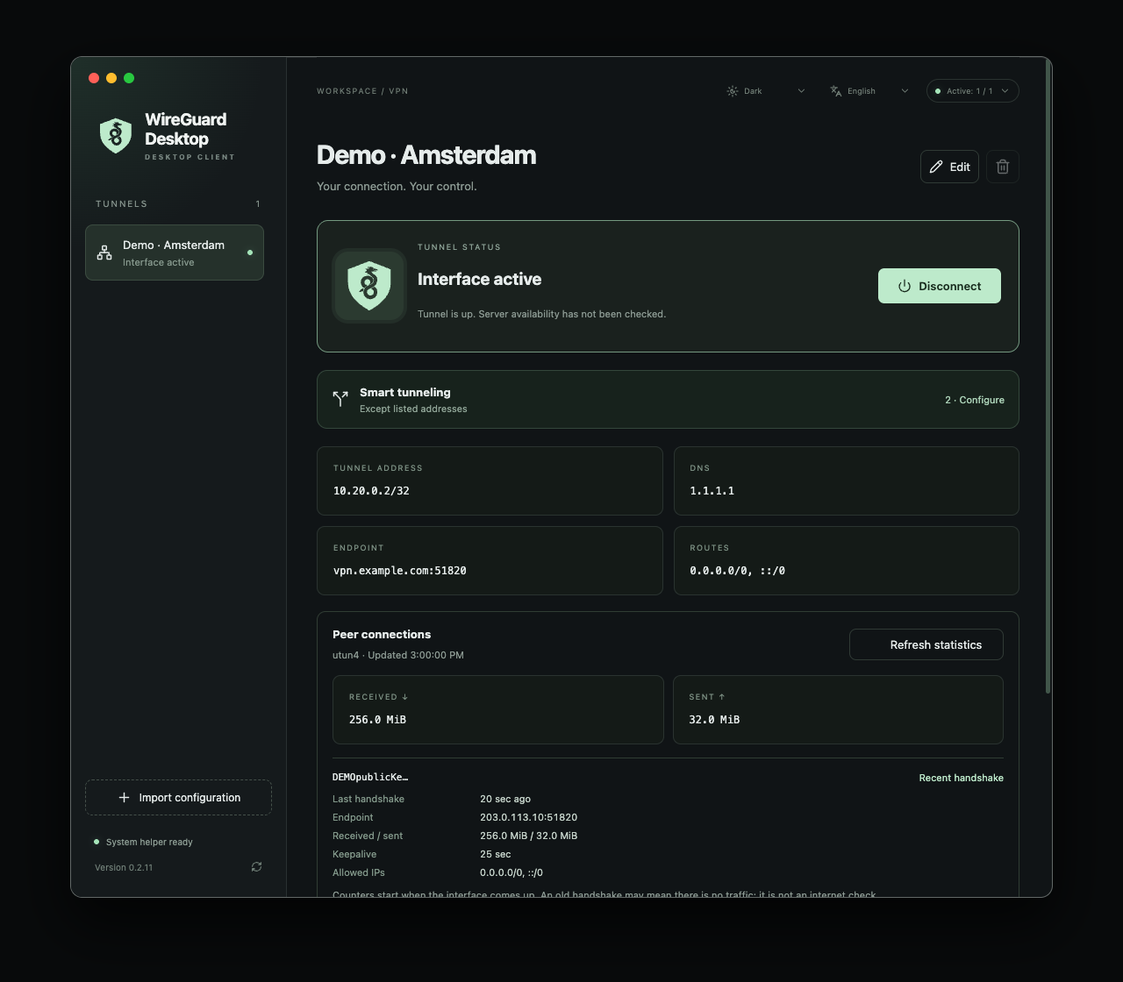
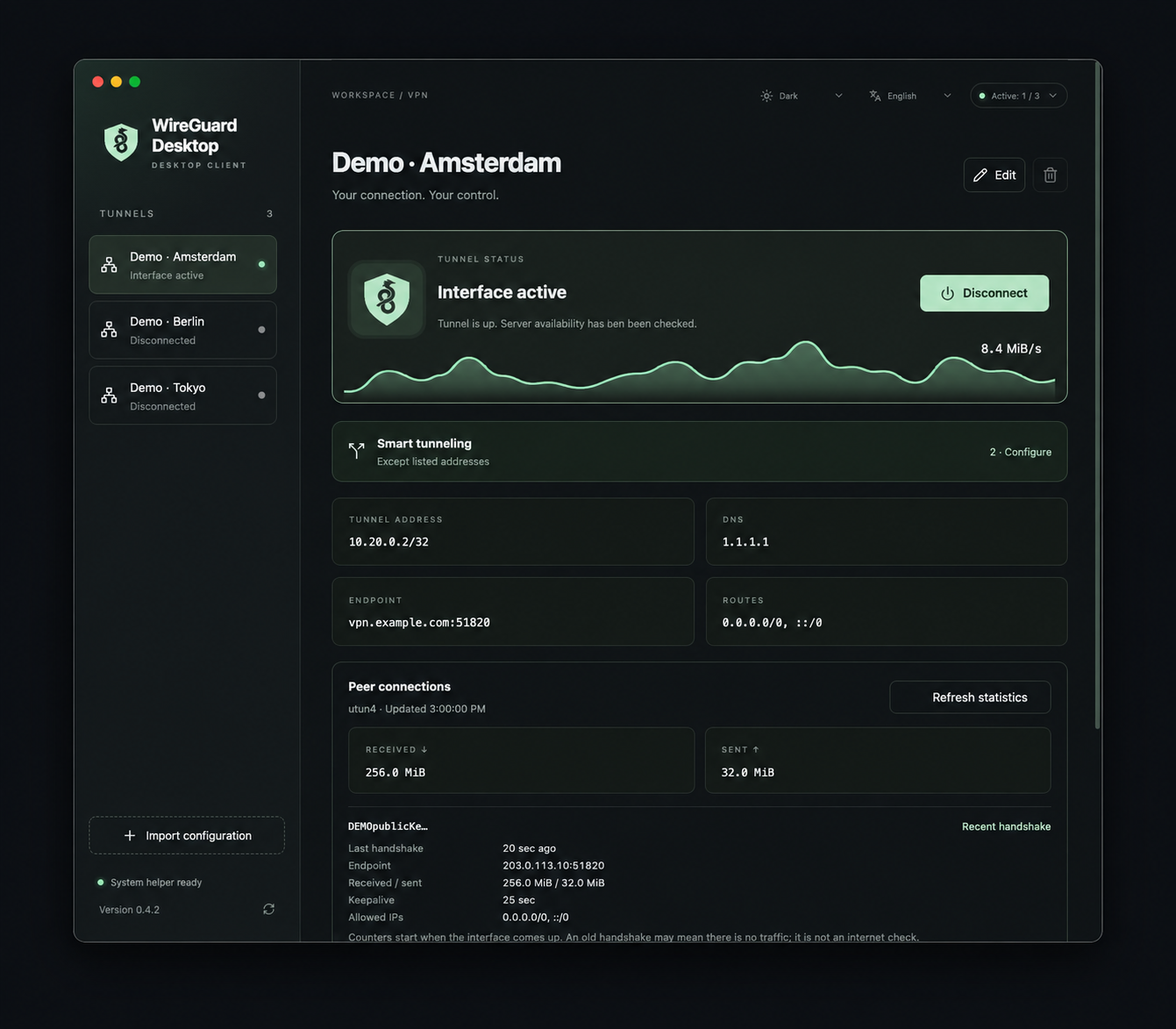
Refresh README presentation and demo artwork

diff --git a/README.ru.md b/README.ru.md
@@ -1,37 +1,106 @@
-# WireGuard Desktop
+<p align="center">
+  <img src="public/wireguard.svg" width="72" height="77" alt="Логотип WireGuard Desktop">
+</p>
 
-**Русский** · [English](README.md) · [Скачать для Mac](https://github.com/Salvehn/wireguard-ui/releases/latest/download/WireGuard-Desktop-arm64.dmg) · [Скачать для Windows](https://github.com/Salvehn/wireguard-ui/releases/latest/download/WireGuard-Desktop-x64-Setup.exe)
+<h1 align="center">WireGuard Desktop</h1>
 
-Клиент WireGuard для macOS на Apple Silicon и Windows x64. Импортируйте профили `.conf`, подключайте несколько туннелей независимо и следите за трафиком и handshake. Управление доступно в окне и системном трее; конфигурации и ключи остаются на компьютере.
+<p align="center">
+  Удобный клиент WireGuard для macOS и Windows.<br>
+  Несколько туннелей, выборочная маршрутизация, живой график трафика — без облачного аккаунта.
+</p>
 
-## Split tunneling
+<p align="center">
+  <a href="README.md">English</a>　·　<strong>Русский</strong>
+</p>
 
-Откройте **Smart tunneling** у отключённого профиля и выберите, какой трафик направлять через это соединение. Настройки сохраняются отдельно для каждого профиля и только сужают исходные `AllowedIPs`.
+<p align="center">
+  <a href="https://github.com/Salvehn/wireguard-ui/releases/latest/download/WireGuard-Desktop-arm64.dmg"><strong>macOS</strong></a>
+ 　·　
+  <a href="https://github.com/Salvehn/wireguard-ui/releases/latest/download/WireGuard-Desktop-x64-Setup.exe"><strong>Windows</strong></a>
+ 　·　
+  <a href="https://github.com/Salvehn/wireguard-ui/releases/latest"><strong>История версий</strong></a>
+</p>
 
-| Режим                       | Трафик через это соединение                                              |
-| --------------------------- | ------------------------------------------------------------------------ |
-| Маршруты конфигурации       | Маршруты импортированного `.conf`                                        |
-| Только адреса из списка     | Выбранные домены, IP-адреса и сети CIDR                                  |
-| Кроме адресов из списка     | Исходные маршруты за исключением указанных адресов                       |
-| Только выбранные приложения | Процессы внутри выбранных `.app` на macOS или выбранные `.exe` в Windows |
-| Кроме выбранных приложений  | Остальные процессы                                                       |
+<p align="center">
+  <img src="https://img.shields.io/github/v/release/Salvehn/wireguard-ui?display_name=tag&sort=semver&style=flat-square&color=58a6ff" alt="Последний релиз">
+  <img src="https://img.shields.io/github/actions/workflow/status/Salvehn/wireguard-ui/desktop-release.yml?branch=main&style=flat-square&label=build" alt="Статус сборки">
+  <img src="https://img.shields.io/badge/macOS-Apple%20Silicon-24292f?style=flat-square&logo=apple&logoColor=white" alt="macOS Apple Silicon">
+  <img src="https://img.shields.io/badge/Windows-x64-0078d4?style=flat-square&logo=windows11&logoColor=white" alt="Windows x64">
+</p>
 
-**Домены и поддомены.** `example.com` обозначает сам домен. Маска `*.example.com` охватывает поддомены любого уровня, например `api.example.com` и `a.b.example.com`, но не сам домен. Добавьте обе записи или нажмите **«Поддомены»**, чтобы добавить маску рядом с доменом. Маски получают IPv4/IPv6-адреса из системных DNS-запросов и сохраняют их до отключения. Сайты с общим IP следуют одному адресному правилу; приложения с собственным DNS-over-HTTPS могут обходить маски.
+![WireGuard Desktop с вымышленными демонстрационными соединениями](docs/images/desktop-macos-window.png)
 
-**Приложения и несколько VPN.** Выбирайте `.app` в macOS или `.exe` в Windows через стандартное окно. Правила приложений и адресов — альтернативные режимы одного профиля; разные профили могут одновременно использовать разные режимы. Конкретные рабочие подсети обычных VPN сохраняют приоритет. При совпадении правил приложений используется последнее подключённое соединение. Исключённый или невыбранный трафик может идти через другой активный VPN, а не обязательно напрямую. Отключение одного профиля сохраняет остальные.
+<p align="center"><sub>Все профили и данные трафика вымышлены. На скриншоте нет реальных подключений или приватных ключей.</sub></p>
 
-Если для домена маски уже есть обычный файл `/etc/resolver`, помощник направляет запросы его DNS-серверам и восстанавливает исходный файл при отключении. Другие пересекающиеся DNS-правила по-прежнему блокируют подключение. Точные домены в зоне маски тоже получают адреса из DNS-запросов: отсутствие записи у корневого домена не мешает подключиться.
+## Возможности
 
-**DNS профиля.** В режиме **«Маршруты конфигурации»** строка `DNS` из импортированного `.conf` временно становится системным DNS и восстанавливается при отключении. Выборочные режимы Smart tunneling сохраняют системный DNS. Для масок используются `/etc/resolver` в macOS и правила NRPT в Windows; изменения журналируются и удаляются при отключении или восстановлении.
+- **Независимые туннели.** Импортируйте профили `.conf` и подключайте несколько VPN одновременно.
+- **Smart tunneling.** Направляйте через каждый профиль выбранные адреса, домены, поддомены или приложения.
+- **Живой статус.** Следите за скоростью, счётчиками трафика, handshake и последними событиями.
+- **Управление с рабочего стола.** Используйте основное окно, строку меню macOS или системный трей Windows.
+- **Локальное хранение.** Конфигурации и приватные ключи остаются на компьютере.
+- **Безопасные обновления.** Устанавливайте криптографически проверенные обновления прямо из приложения.
+- **Удобный интерфейс.** Русский и английский языки, светлая, тёмная и системная темы.
 
-В режимах со списком адресов используется системный DNS. В режиме приложений DNS следует обычным маршрутам, общие системные службы могут не определяться как часть приложения, а статистика peers WireGuard недоступна. После подключения перезапустите выбранные приложения. Изменения соединений или доменных маршрутов кратко перезапускают общий движок приложений и могут прервать его трафик. Установка или обновление системного помощника требует разрешение администратора. Windows-установщик включает официальный подписанный пакет WireGuard for Windows.
+## Smart tunneling
 
-Маски и маршрутизация по приложениям пока экспериментальные. Автоматические проверки охватывают обе платформы; первый Windows-релиз должен также пройти проверку с реальным VPN в Windows.
+Откройте **Smart tunneling** у отключённого профиля и выберите, какой трафик направлять через это соединение. Правила сохраняются в профиле и только сужают его исходные `AllowedIPs`.
 
-Есть русский и английский языки, светлая и тёмная темы, обновления через интерфейс с прогрессом загрузки и перезапуском.
+| Режим                       | Трафик через соединение                                       |
+| --------------------------- | ------------------------------------------------------------- |
+| Маршруты конфигурации       | Маршруты импортированного `.conf`                             |
+| Только адреса из списка     | Выбранные домены, IP-адреса и сети CIDR                       |
+| Кроме адресов из списка     | Исходные маршруты за исключением выбранных адресов            |
+| Только выбранные приложения | Процессы внутри выбранных `.app` в macOS или `.exe` в Windows |
+| Кроме выбранных приложений  | Все остальные процессы                                        |
 
-![WireGuard Desktop с вымышленным демонстрационным соединением](docs/images/desktop-macos-window.png)
+<details>
+<summary><strong>Домены, маски и DNS</strong></summary>
 
-_На скриншоте демонстрационные данные, без реальных VPN-соединений и приватных ключей._
+- `example.com` обозначает сам домен. `*.example.com` охватывает поддомены любого уровня, но не сам домен. Добавьте обе записи, чтобы охватить домен целиком.
+- Маски получают IPv4- и IPv6-адреса из системных DNS-запросов до отключения профиля. Сайты с общим IP следуют одному правилу, а приложения с собственным DNS-over-HTTPS могут его обойти.
+- В режиме **«Маршруты конфигурации»** DNS профиля временно становится системным. Выборочные режимы сохраняют текущий системный DNS.
+- Для масок используются `/etc/resolver` в macOS и правила NRPT в Windows. Изменения журналируются и удаляются при отключении или восстановлении.
 
-Автоматическая публикация: [релизы macOS и Windows](docs/releases.md).
+</details>
+
+<details>
+<summary><strong>Приложения и несколько VPN</strong></summary>
+
+- Правила адресов и приложений — альтернативные режимы одного профиля. Разные профили могут одновременно работать в разных режимах.
+- Конкретные рабочие подсети сохраняют приоритет. При совпадении правил приложений используется последнее подключённое соединение.
+- Исключённый или невыбранный трафик может идти через другой активный VPN. Отключение одного профиля не затрагивает остальные.
+- После подключения перезапустите выбранные приложения. Общие системные службы могут не определяться как часть приложения, а статистика peers WireGuard в этом режиме недоступна.
+
+</details>
+
+> [!NOTE]
+> Маршрутизация по маскам и приложениям пока экспериментальная. Изменение активных правил приложений может ненадолго прервать их трафик.
+
+## Установка
+
+| Платформа | Поддерживаемая система | Скачать                                                                                                        |
+| --------- | ---------------------- | -------------------------------------------------------------------------------------------------------------- |
+| macOS     | Apple Silicon          | [DMG](https://github.com/Salvehn/wireguard-ui/releases/latest/download/WireGuard-Desktop-arm64.dmg)            |
+| Windows   | x64                    | [Установщик](https://github.com/Salvehn/wireguard-ui/releases/latest/download/WireGuard-Desktop-x64-Setup.exe) |
+
+После установки импортируйте обычный файл WireGuard `.conf`. Для установки или обновления системного помощника потребуется разрешение администратора. Windows-установщик включает официальный подписанный пакет WireGuard for Windows.
+
+## Разработка
+
+Понадобятся Node.js 24 и npm.
+
+```sh
+npm ci
+npm run dev
+```
+
+Проверки, которые выполняются для `main`:
+
+```sh
+npm test
+npm run test:release
+npm run build
+```
+
+Границы процессов и привилегий описаны в [ARCHITECTURE.md](ARCHITECTURE.md). Инструкция по сборке и публикации релизов находится в [docs/releases.md](docs/releases.md).

diff --git a/README.md b/README.md
@@ -1,37 +1,106 @@
-# WireGuard Desktop
+<p align="center">
+  <img src="public/wireguard.svg" width="72" height="77" alt="WireGuard Desktop logo">
+</p>
 
-[Русский](README.ru.md) · **English** · [Download for Mac](https://github.com/Salvehn/wireguard-ui/releases/latest/download/WireGuard-Desktop-arm64.dmg) · [Download for Windows](https://github.com/Salvehn/wireguard-ui/releases/latest/download/WireGuard-Desktop-x64-Setup.exe)
+<h1 align="center">WireGuard Desktop</h1>
 
-A WireGuard client for macOS on Apple Silicon and Windows x64. Import `.conf` profiles, run multiple connections independently, and monitor traffic and peer handshakes. Manage tunnels from the window or system tray; configurations and keys stay on your computer.
+<p align="center">
+  A focused WireGuard client for macOS and Windows.<br>
+  Multiple tunnels, selective routing, live traffic, and no cloud account.
+</p>
 
-## Split tunneling
+<p align="center">
+  <strong>English</strong>　·　<a href="README.ru.md">Русский</a>
+</p>
 
-Open **Smart tunneling** on a disconnected profile to choose what goes through that connection. Each profile has its own rules; they only narrow the original `AllowedIPs`.
+<p align="center">
+  <a href="https://github.com/Salvehn/wireguard-ui/releases/latest/download/WireGuard-Desktop-arm64.dmg"><strong>macOS</strong></a>
+ 　·　
+  <a href="https://github.com/Salvehn/wireguard-ui/releases/latest/download/WireGuard-Desktop-x64-Setup.exe"><strong>Windows</strong></a>
+ 　·　
+  <a href="https://github.com/Salvehn/wireguard-ui/releases/latest"><strong>Release notes</strong></a>
+</p>
 
-| Mode                         | Traffic through this connection                                                 |
-| ---------------------------- | ------------------------------------------------------------------------------- |
-| Configuration routes         | The routes from the imported `.conf`                                            |
-| Only listed addresses        | Selected domains, IP addresses and CIDR networks                                |
-| Except listed addresses      | Original routes excluding the listed addresses                                  |
-| Only selected applications   | Processes inside selected macOS `.app` bundles or selected Windows `.exe` files |
-| Except selected applications | Other processes                                                                 |
+<p align="center">
+  <img src="https://img.shields.io/github/v/release/Salvehn/wireguard-ui?display_name=tag&sort=semver&style=flat-square&color=58a6ff" alt="Latest release">
+  <img src="https://img.shields.io/github/actions/workflow/status/Salvehn/wireguard-ui/desktop-release.yml?branch=main&style=flat-square&label=build" alt="Build status">
+  <img src="https://img.shields.io/badge/macOS-Apple%20Silicon-24292f?style=flat-square&logo=apple&logoColor=white" alt="macOS Apple Silicon">
+  <img src="https://img.shields.io/badge/Windows-x64-0078d4?style=flat-square&logo=windows11&logoColor=white" alt="Windows x64">
+</p>
 
-**Domains and subdomains.** `example.com` matches the domain itself. `*.example.com` matches subdomains at any depth, such as `api.example.com` and `a.b.example.com`, but not the domain itself. Add both entries, or use the **Subdomains** button to add the wildcard alongside a domain. Wildcards learn IPv4/IPv6 addresses from system DNS queries and keep them until disconnection. Sites sharing an IP follow the same address rule; applications using their own DNS-over-HTTPS can bypass wildcard rules.
+![WireGuard Desktop with fictional demo connections](docs/images/desktop-macos-window.png)
 
-**Applications and multiple VPNs.** Choose `.app` bundles on macOS or `.exe` files on Windows with the native picker. Application rules and address rules are alternative modes within one profile; different profiles can use different modes at the same time. Specific work subnets of ordinary VPNs retain priority. When application rules overlap, the most recently connected profile wins. Excluded or unmatched traffic can use another active VPN; it is not necessarily sent directly. Disconnecting one profile preserves the others.
+<p align="center"><sub>Fictional profiles and traffic data. No real connection or private keys are shown.</sub></p>
 
-For a wildcard with an existing ordinary `/etc/resolver` file for the same domain, the helper forwards queries to that file’s DNS servers and restores the original file when disconnected. Other overlapping resolver rules still block connection. Exact domains covered by a wildcard also learn addresses from DNS queries, so a missing apex record does not prevent connection.
+## Highlights
 
-**Profile DNS.** In **Configuration routes** mode, the `DNS` line from the imported `.conf` temporarily becomes system DNS and is restored when the tunnel disconnects. Selective Smart tunneling modes keep system DNS. Wildcard rules use `/etc/resolver` on macOS and Windows NRPT rules on Windows; both are journaled and removed during disconnection or recovery.
+- **Independent tunnels.** Import `.conf` profiles and connect several VPNs at once.
+- **Smart tunneling.** Route selected addresses, domains, subdomains, or applications through each profile.
+- **Live status.** See throughput, traffic counters, peer handshakes, and recent connection events.
+- **Native desktop controls.** Use the main window or the macOS menu bar and Windows system tray.
+- **Local by design.** Configurations and private keys stay on your computer.
+- **Safe updates.** Install cryptographically verified updates from inside the app.
+- **Comfortable UI.** English and Russian, with light, dark, and system themes.
 
-Address-list modes use system DNS. In application mode, system DNS follows ordinary routes, shared system services may not be identified as part of an app, and WireGuard peer statistics are unavailable. Restart selected applications after connecting. Connection or domain-route changes briefly restart the shared application engine and may interrupt its traffic. Installing or updating the system helper requires administrator approval. The Windows installer includes the official signed WireGuard for Windows package.
+## Smart tunneling
 
-Wildcard and application routing are experimental. Automated checks cover both platforms; the first Windows release must also pass live VPN checks on Windows.
+Open **Smart tunneling** on a disconnected profile and choose what should use that connection. Rules belong to the profile and only narrow its original `AllowedIPs`.
 
-Includes English and Russian, light and dark themes, and in-app updates with download progress and restart.
+| Mode                         | Traffic through the connection                                         |
+| ---------------------------- | ---------------------------------------------------------------------- |
+| Configuration routes         | Routes from the imported `.conf`                                       |
+| Only listed addresses        | Selected domains, IP addresses, and CIDR networks                      |
+| Except listed addresses      | Original routes, excluding selected addresses                          |
+| Only selected applications   | Processes inside selected macOS `.app` bundles or Windows `.exe` files |
+| Except selected applications | Every other process                                                    |
 
-![WireGuard Desktop with a fictional demo connection](docs/images/desktop-macos-window.png)
+<details>
+<summary><strong>Domains, wildcards, and DNS</strong></summary>
 
-_Demo data; no real VPN connection or private keys are shown._
+- `example.com` matches the domain itself. `*.example.com` matches subdomains at any depth, but not the domain itself. Add both to cover the complete domain.
+- Wildcards learn IPv4 and IPv6 addresses from system DNS until the profile disconnects. Sites sharing an IP follow the same rule, while applications using their own DNS-over-HTTPS can bypass it.
+- In **Configuration routes** mode, profile DNS temporarily becomes system DNS. Selective modes keep the existing system DNS.
+- Wildcards use `/etc/resolver` on macOS and NRPT rules on Windows. Changes are journaled and removed on disconnection or recovery.
 
-Release automation: [macOS and Windows releases](docs/releases.md).
+</details>
+
+<details>
+<summary><strong>Applications and multiple VPNs</strong></summary>
+
+- Address and application rules are alternative modes within one profile. Different profiles may use different modes at the same time.
+- Specific work subnets keep priority. If application rules overlap, the most recently connected profile wins.
+- Excluded or unmatched traffic may use another active VPN. Disconnecting one profile leaves the others running.
+- Restart selected applications after connecting. Shared system services may not be recognized as part of an app, and WireGuard peer statistics are unavailable in application mode.
+
+</details>
+
+> [!NOTE]
+> Wildcard and application routing are experimental. Changing active application routes can briefly interrupt their traffic.
+
+## Install
+
+| Platform | Supported system | Download                                                                                                      |
+| -------- | ---------------- | ------------------------------------------------------------------------------------------------------------- |
+| macOS    | Apple Silicon    | [DMG](https://github.com/Salvehn/wireguard-ui/releases/latest/download/WireGuard-Desktop-arm64.dmg)           |
+| Windows  | x64              | [Installer](https://github.com/Salvehn/wireguard-ui/releases/latest/download/WireGuard-Desktop-x64-Setup.exe) |
+
+Import a standard WireGuard `.conf` file after installation. Setting up or upgrading the system helper requires administrator approval. The Windows installer includes the official signed WireGuard for Windows package.
+
+## Development
+
+Requires Node.js 24 and npm.
+
+```sh
+npm ci
+npm run dev
+```
+
+Run the checks used on `main`:
+
+```sh
+npm test
+npm run test:release
+npm run build
+```
+
+See [ARCHITECTURE.md](ARCHITECTURE.md) for the process and privilege boundaries. Release maintainers can find the build and publishing workflow in [docs/releases.md](docs/releases.md).
